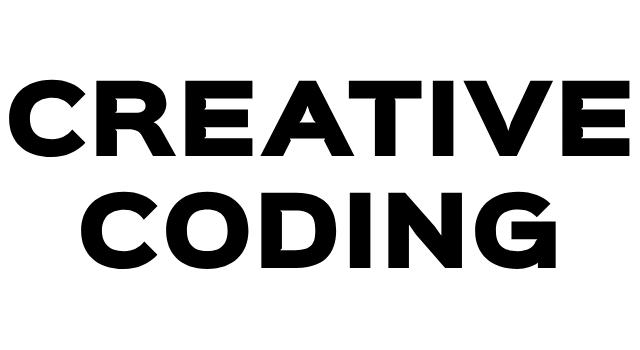
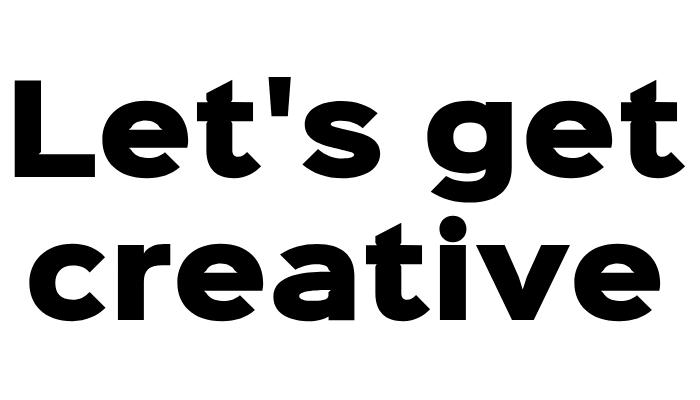
io Conference presentation cover

Changed region(s): [[0.0, 0.1714, 1.0, 0.5143], [0.0312, 0.5429, 0.9688, 0.8286]]

diff --git a/noise-punch-out-cc-cover/main.js b/noise-punch-out-cc-cover/main.js
@@ -18,19 +18,20 @@ const map = (value, inMin, inMax, outMin, outMax) => {
 	return ((value - inMin) * (outMax - outMin)) / (inMax - inMin) + outMin;
 };
 
-const IMAGE_URL = "https://pimskie.dev/public/assets/noise.jpg";
+// const IMAGE_URL = "https://pimskie.dev/public/assets/creative-coding.jpg";
+const IMAGE_URL = "./creative-coding.jpg";
 const PI2 = Math.PI * 2;
 const canvas = document.body.querySelector("canvas");
 const ctx = canvas.getContext("2d");
 
-const canvasWidth = 1500;
-const canvasHeight = 600;
+const canvasWidth = window.innerWidth;
+const canvasHeight = window.innerHeight;
 
 const midX = canvasWidth * 0.5;
 const midY = canvasHeight * 0.5;
 
-const imageWidth = 500;
-const imageHeight = 316;
+const imageWidth = 700;
+const imageHeight = 400;
 
 const noiseLayers = new Array(2).fill(0).map(() => new SimplexNoise());
 
@@ -52,35 +53,20 @@ const loadImage = async (url) => {
 	});
 };
 
-const imageToImageData = (img, canvasWidth, canvasHeight) => {
-	const canvas = document.createElement("canvas");
+const imageToImageData = (img) => {
+	// Create a small canvas just for the image data extraction
+	const imageCanvas = document.createElement("canvas");
+	imageCanvas.width = imageWidth;
+	imageCanvas.height = imageHeight;
 
-	canvas.width = canvasWidth;
-	canvas.height = canvasHeight;
+	const imageCtx = imageCanvas.getContext("2d");
+	imageCtx.fillStyle = "white";
+	imageCtx.fillRect(0, 0, imageWidth, imageHeight);
 
-	const canvasMidX = canvasWidth * 0.5;
-	const canvasMidY = canvasHeight * 0.5;
+	// Draw the image at its natural size on the small canvas
+	imageCtx.drawImage(img, 0, 0, imageWidth, imageHeight);
 
-	const imageHalfWidth = img.width * 0.5;
-	const imageHalfHeight = img.height * 0.5;
-
-	const ctx = canvas.getContext("2d");
-	ctx.fillStyle = "white";
-	ctx.fillRect(0, 0, canvasWidth, canvasHeight);
-
-	ctx.drawImage(
-		img,
-		0,
-		0,
-		imageWidth,
-		imageHeight,
-		canvasMidX - imageHalfWidth,
-		canvasMidY - imageHalfHeight,
-		img.width,
-		img.height
-	);
-
-	const imageData = ctx.getImageData(0, 0, canvasWidth, canvasHeight);
+	const imageData = imageCtx.getImageData(0, 0, imageWidth, imageHeight);
 
 	return imageData;
 };
@@ -93,7 +79,7 @@ let phase = 0;
 let imageData = null;
 let particles = [];
 
-const addParticle = () => {
+const getParticle = () => {
 	const left = midX - imageWidth / 2;
 	const top = midY - imageHeight / 2;
 
@@ -113,11 +99,15 @@ const addParticle = () => {
 		strokeWidth: 1,
 	};
 
-	particles.push(particle);
+	return particle;
+};
+
+const addParticle = () => {
+	particles.push(getParticle());
 };
 
 const generate = () => {
-	for (let i = 0; i < 3000; i++) {
+	for (let i = 0; i < 5000; i++) {
 		addParticle();
 	}
 };
@@ -136,61 +126,46 @@ const update = (particle, phase, bounds) => {
 	particle.x += Math.cos(particle.angle) * particle.velocity;
 	particle.y += Math.sin(particle.angle) * particle.velocity;
 
-	const pixelIndex = getPixelIndex(particle.x, particle.y, imageData);
+	const imageX = particle.x - (midX - imageWidth / 2);
+	const imageY = particle.y - (midY - imageHeight / 2);
+
+	const clampedX = Math.max(0, Math.min(imageWidth - 1, imageX));
+	const clampedY = Math.max(0, Math.min(imageHeight - 1, imageY));
+
+	const pixelIndex = getPixelIndex(clampedX, clampedY, imageData);
 	const pixelData = getPixelData(pixelIndex, imageData);
 	const isDark = pixelData.sum < 300;
 
 	if (isDark) {
-		particle.opacity *= 1.1;
+		particle.opacity *= 2;
 		particle.opacity = Math.min(particle.opacity, 1);
 	} else {
-		// Calculate distance from center of canvas
-		const centerX = canvasWidth / 2;
-		const centerY = canvasHeight / 2;
-
-		const distanceX = Math.abs(particle.x - centerX);
-		const distanceY = Math.abs(particle.y - centerY);
-
-		const maxDistanceX = canvasWidth / 2;
-		const maxDistanceY = canvasHeight / 2;
-
-		const fadeX = 1 - (distanceX / maxDistanceX) * 0.1;
-		const fadeY = 1 - (distanceY / maxDistanceY) * 0.01;
-		const edgeFade = fadeX * fadeY;
-
-		particle.opacity *= 0.99;
+		particle.opacity *= 0.995;
 		particle.opacity = Math.min(particle.opacity, 0.1);
 	}
 
 	particle.life *= particle.decay;
-	// particle.strokeWidth *= 0.998;
 
-	// reset out of bounds
-	if (particle.x > bounds.width) {
-		particle.x = 0;
-	}
-
-	if (particle.x < 0) {
-		particle.x = bounds.width;
-	}
-
-	if (particle.y > bounds.height) {
-		particle.y = 0;
-	}
-
-	if (particle.y < 0) {
-		particle.y = bounds.height;
+	if (
+		particle.x > bounds.width ||
+		particle.x < 0 ||
+		particle.y > bounds.height ||
+		particle.y < 0
+	) {
+		// Mark particle for removal and create a new one at a random position
+		particle.life = 0;
+		particle.opacity = 0;
 	}
 };
 
 const draw = (particle) => {
 	const yPercent = particle.y / canvasHeight;
-	const hue = 180 + 180 * yPercent;
+	const hue = 200 + 100 * yPercent;
 	const thickness = particle.strokeWidth;
 	const opacity = particle.opacity * 10;
 
 	ctx.beginPath();
-	ctx.fillStyle = `hsla(${hue} 50% 50% / ${opacity}%)`;
+	ctx.fillStyle = `hsla(${hue} 50% 10% / ${opacity}%)`;
 	ctx.arc(particle.x, particle.y, thickness, 0, Math.PI * 2);
 	ctx.fill();
 	ctx.closePath();
@@ -202,9 +177,14 @@ const loop = () => {
 		draw(particle);
 	});
 
+	const removedCount = particles.length;
 	particles = particles.filter((particle) => particle.life > 0.1);
 
-	addParticle();
+	const removedParticles = removedCount - particles.length;
+
+	for (let i = 0; i < removedParticles; i++) {
+		addParticle();
+	}
 
 	phase += 0.0009;
 
@@ -213,7 +193,7 @@ const loop = () => {
 
 const img = await loadImage(IMAGE_URL);
 
-imageData = imageToImageData(img, canvasWidth, canvasHeight);
+imageData = imageToImageData(img);
 
 generate();
 
@@ -230,7 +210,15 @@ canvas.addEventListener("mousemove", (event) => {
 	const mouseX = event.clientX - rect.left;
 	const mouseY = event.clientY - rect.top;
 
-	const pixelIndex = getPixelIndex(mouseX, mouseY, imageData);
+	// Convert mouse position to image coordinates
+	const imageX = mouseX - (midX - imageWidth / 2);
+	const imageY = mouseY - (midY - imageHeight / 2);
+
+	// Clamp coordinates to image bounds
+	const clampedX = Math.max(0, Math.min(imageWidth - 1, imageX));
+	const clampedY = Math.max(0, Math.min(imageHeight - 1, imageY));
+
+	const pixelIndex = getPixelIndex(clampedX, clampedY, imageData);
 	const pixelData = getPixelData(pixelIndex, imageData);
 
 	console.log(

diff --git a/noise-punch-out-cc-cover/index.html b/noise-punch-out-cc-cover/index.html
@@ -4,6 +4,8 @@
         <meta charset="UTF-8" />
         <meta name="viewport" content="width=device-width, initial-scale=1.0" />
         <title>Document</title>
+
+        <link rel="stylesheet" href="main.css" />
     </head>
     <body>
         <canvas clas="js-draw"></canvas>

diff --git a/noise-punch-out-cc-cover/main.css b/noise-punch-out-cc-cover/main.css
@@ -2,8 +2,9 @@ html,
 body {
 	margin: 0;
 	padding: 0;
+	overflow: hidden;
 
-	background: white;
+	background: #fff;
 }
 
 body {
